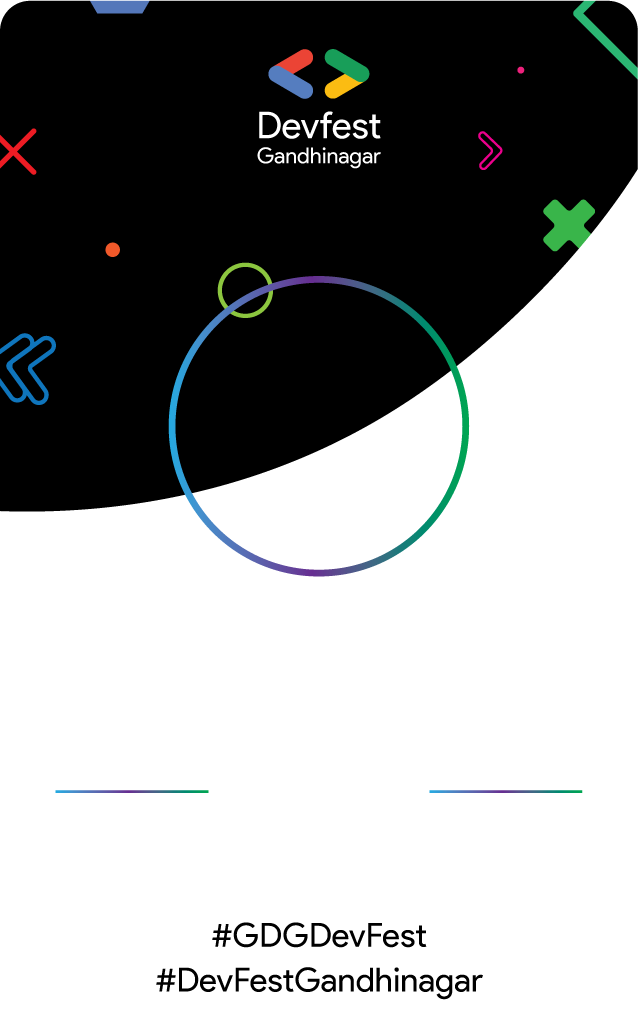
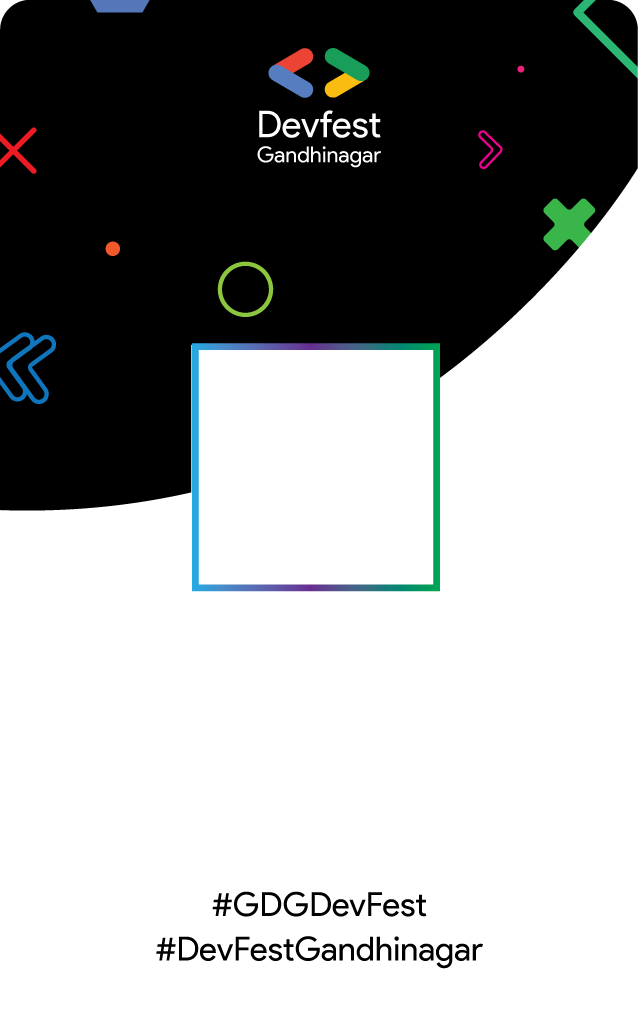
mailing support

diff --git a/idgen.py b/idgen.py
@@ -1,9 +1,14 @@
+
+# [START sheets_quickstart]
 from __future__ import print_function
 import pickle
 import os.path
 from googleapiclient.discovery import build
 from google_auth_oauthlib.flow import InstalledAppFlow
 from google.auth.transport.requests import Request
+
+from dotenv import load_dotenv
+load_dotenv()
 
 # Import QR code stuff
 import qrcode
@@ -15,6 +20,18 @@ import math
 
 import requests
 from io import BytesIO
+import base64
+
+import os
+import json
+
+# Mailjet
+from mailjet_rest import Client
+
+API_KEY = os.getenv('MJ_APIKEY_PUBLIC')
+API_SECRET = os.getenv('MJ_APIKEY_PRIVATE')
+
+mailjet = Client(auth=(API_KEY, API_SECRET), version='v3.1')
 
 # If modifying these scopes, delete the file token.pickle.
 SCOPES = ['https://www.googleapis.com/auth/spreadsheets.readonly']
@@ -22,120 +39,155 @@ SCOPES = ['https://www.googleapis.com/auth/spreadsheets.readonly']
 # The ID and range of a sample spreadsheet.
 
 # ID of spreadsheet : https://docs.google.com/spreadsheets/d/<THIS-PART-IS-ID>/edit#gid=0
-SAMPLE_SPREADSHEET_ID = '1tnjNRDMcbPherAWI-pqDkRnhmcI9ClrBVfCHNokE9dg'
-SAMPLE_RANGE_NAME = 'A1:D'
+SAMPLE_SPREADSHEET_ID = os.getenv('SHEET_ID')
+SAMPLE_RANGE_NAME = 'A2:D'
 
 
 def main():
-    print("Getting data from the sheet...")
+  print("Getting data from the sheet...")
 
-    """Shows basic usage of the Sheets API.
+  """Shows basic usage of the Sheets API.
   Prints values from a sample spreadsheet.
   """
-    creds = None
-    # The file token.pickle stores the user's access and refresh tokens, and is
-    # created automatically when the authorization flow completes for the first
-    # time.
-    if os.path.exists('token.pickle'):
-        with open('token.pickle', 'rb') as token:
-            creds = pickle.load(token)
-    # If there are no (valid) credentials available, let the user log in.
-    if not creds or not creds.valid:
-        if creds and creds.expired and creds.refresh_token:
-            creds.refresh(Request())
-        else:
-            flow = InstalledAppFlow.from_client_secrets_file(
-                'credentials.json', SCOPES)
-            creds = flow.run_local_server(port=0)
-        # Save the credentials for the next run
-        with open('token.pickle', 'wb') as token:
-            pickle.dump(creds, token)
-
-    service = build('sheets', 'v4', credentials=creds)
-
-    # Call the Sheets API
-    sheet = service.spreadsheets()
-    result = sheet.values().get(spreadsheetId=SAMPLE_SPREADSHEET_ID,
-                                range=SAMPLE_RANGE_NAME).execute()
-    values = result.get('values', [])
-
-    if not values:
-        print('No data found.')
+  creds = None
+  # The file token.pickle stores the user's access and refresh tokens, and is
+  # created automatically when the authorization flow completes for the first
+  # time.
+  if os.path.exists('token.pickle'):
+    with open('token.pickle', 'rb') as token:
+      creds = pickle.load(token)
+  # If there are no (valid) credentials available, let the user log in.
+  if not creds or not creds.valid:
+    if creds and creds.expired and creds.refresh_token:
+        creds.refresh(Request())
     else:
-        # We can access the sheet values here
-        print("Data received.")
+        flow = InstalledAppFlow.from_client_secrets_file('credentials.json', SCOPES)
+        creds = flow.run_local_server(port=0)
+    # Save the credentials for the next run
+    with open('token.pickle', 'wb') as token:
+      pickle.dump(creds, token)
 
-        for row in values:
-            name = row[0]
-            contact = row[1]
-            role = row[2]
-            imageUrl = row[3]
+  service = build('sheets', 'v4', credentials=creds)
 
-            print('Generating card for %s...' % (name))
+  # Call the Sheets API
+  sheet = service.spreadsheets()
+  result = sheet.values().get(spreadsheetId=SAMPLE_SPREADSHEET_ID, range=SAMPLE_RANGE_NAME).execute()
+  values = result.get('values', [])
 
-            qr = qrcode.QRCode(
-                version=1,
-                error_correction=qrcode.constants.ERROR_CORRECT_M,
-                box_size=10,
-                border=4,
-            )
+  if not values:
+    print('No data found.')
+  else:
+    # We can access the sheet values here
+    print("Data received.")
 
-            # QR Code factory
-            # factory = qrcode.image.svg.SvgPathImage
+    for row in values:
+      reg_id = row[0]
+      name = row[1] + ' ' + row[2]
+      email = row[3]
 
-            data = '%s %s %s' % (name, contact, role)
+      print('Generating card for %s...' % (name))
 
-            qr.add_data(data)
-            qr.make(fit=True)
-            img = qr.make_image()
+      qr = qrcode.QRCode(
+        version = 1,
+        error_correction = qrcode.constants.ERROR_CORRECT_M,
+        box_size = 10,
+        border = 2,
+      )
 
-            # Resize the QR code to 150px X 150px
-            img.thumbnail((221, 221), Image.ANTIALIAS)
+      # QR Code factory
+      # factory = qrcode.image.svg.SvgPathImage
 
-            img.save(os.path.join('qrcodes', contact + '.png'))
-            # Image.open(code).save(os.path.join('qrcodes', contact + '.svg'))
+      qr.add_data(reg_id)
+      qr.make(fit=True)
+      img = qr.make_image()
 
-            template = Image.open('template.png')
+      # Resize the QR code to 150px X 150px
+      img.thumbnail((221, 221), Image.ANTIALIAS)
 
-            # Paste QR code
-            template.paste(img, (208, 680))
+      img.save(os.path.join('qrcodes', email + '.png'))
+      # Image.open(code).save(os.path.join('qrcodes', contact + '.svg'))
 
-            # Write the name
-            draw = ImageDraw.Draw(template)
-            font = ImageFont.truetype('Product-Sans-Regular.ttf', 55)
+      template = Image.open('template.png')
 
-            x, y = font.getsize(name)
+      # Paste QR code
+      template.paste(img, (205, 360))
 
-            draw.text(((321 - x / 2), (631 - y / 2)),
-                      name, font=font, fill='black')
+      # Write the name
+      draw = ImageDraw.Draw(template)
+      font = ImageFont.truetype('Product-Sans-Regular.ttf', 55)
 
-            # Get and paste the profile picture
-            print('\tGetting profile picture...')
-            imageResponse = requests.get(imageUrl)
-            profileImage = Image.open(BytesIO(imageResponse.content))
+      x, y = font.getsize(name)
 
-            profileImage.thumbnail((288, 288), Image.ANTIALIAS)
+      draw.text(((321 - x / 2), (730 - y / 2)), name, font=font, fill='black')
 
-            # Make the image a circle
-            bigsize = (profileImage.size[0] * 3, profileImage.size[1] * 3)
-            mask = Image.new('L', bigsize, 0)
-            maskDraw = ImageDraw.Draw(mask)
-            maskDraw.ellipse((0, 0) + bigsize, fill=255)
-            mask = mask.resize(profileImage.size, Image.ANTIALIAS)
-            profileImage.putalpha(mask)
+      # Get and paste the profile picture
+      # print('\tGetting profile picture...')
+      # imageResponse = requests.get(imageUrl)
+      # profileImage = Image.open(BytesIO(imageResponse.content))
 
-            template.paste(profileImage, (175, 282), profileImage)
+      # profileImage.thumbnail((288, 288), Image.ANTIALIAS)
+      
+      # # Make the image a circle
+      # bigsize = (profileImage.size[0] * 3, profileImage.size[1] * 3)
+      # mask = Image.new('L', bigsize, 0)
+      # maskDraw = ImageDraw.Draw(mask)
+      # maskDraw.ellipse((0,0) + bigsize, fill=255)
+      # mask = mask.resize(profileImage.size, Image.ANTIALIAS)
+      # profileImage.putalpha(mask)
 
-            # Add abstract element
-            element = Image.open('element.png')
-            element.thumbnail((59, 59), Image.ANTIALIAS)
-            template.paste(element, (397, 507), element)
-            # Save the card
-            template.save(os.path.join('cards', contact + '.png'))
+      # template.paste(profileImage, (175, 282), profileImage)
 
-        print('All cards printed successfully.')
+      # Add abstract element
+      element = Image.open('element.png')
+      element.thumbnail((59, 59), Image.ANTIALIAS)
+      template.paste(element, (407, 557), element)
+      # Save the card
+      template.save(os.path.join('cards', email + '.png'))
+
+      buffer = BytesIO()
+      template.save(buffer, format="PNG")
+      base64Value = base64.b64encode(buffer.getvalue())
+
+      # SEND THE CARD AS A MAIL...
+      data = {
+        'Messages': [
+          {
+            "From": {
+              "Email": "gdggandhinagar@gmail.com",
+              "Name": "Default"
+            },
+            "To": [
+              {
+                "Email": email,
+                "Name": name
+              }
+            ],
+            "Subject": "Your ID card for Devfest Gandhinagar",
+            "HTMLPart": "<h3>Greetings from DevFest Gandhinagar</h3><br />Please find attached your ID card in this mail.",
+            "Attachments": [
+              {
+                "Filename": email + '.png',
+                "ContentType": "image/png",
+                "Base64Content": base64Value.decode("utf-8")
+              }
+            ]
+          }
+        ]
+      }
+
+      # print(data)
+
+      print("\tSending mail to " + name + "...")
+
+      result = mailjet.send.create(data = data)
+      if result.status_code == 200:
+        print("\t\tMail sent.")
+      else:
+        print("\t\tMail not sent.")
+
+    print('All cards printed successfully.')
 
 
 if __name__ == '__main__':
-    main()
+  main()
 # [END sheets_quickstart]
